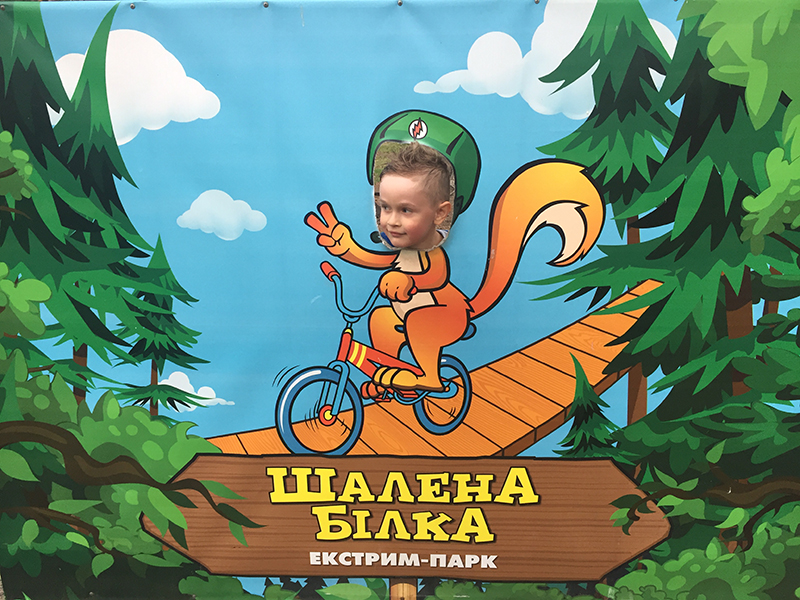
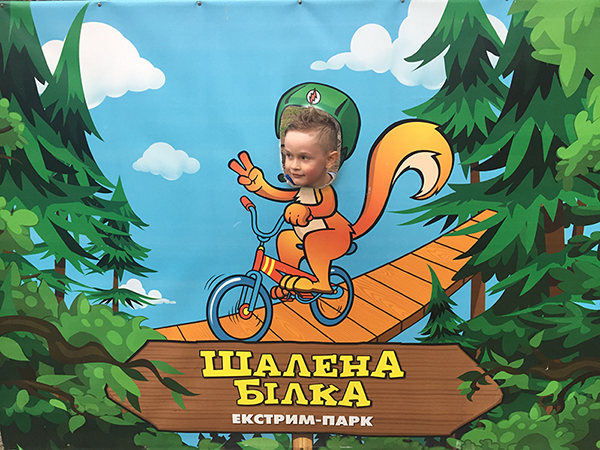
Changed images size. Add new styles css

diff --git a/index.html b/index.html
@@ -12,9 +12,9 @@
 		
 	</header>
 	<main>
+		<h1>Наведи курсор на рисунок</h1>
 		<img src="img/IMG_0524.JPG" class="fly">
 		<img src="img/IMG_0471.JPG" class="river">
-		<h2>Наведи курсор на рисунок</h2>
 	</main>
 	<footer>
 

diff --git a/css/style.css b/css/style.css
@@ -1,0 +1,12 @@
+body{
+	background: #DEEFFF; /* Old browsers */
+}
+h1{
+	font-size: 3em;
+	margin: 10px auto;
+}
+img{
+	box-shadow: 3px 3px 5px black;
+	border-radius: 3px;
+	padding: 3px;
+}
